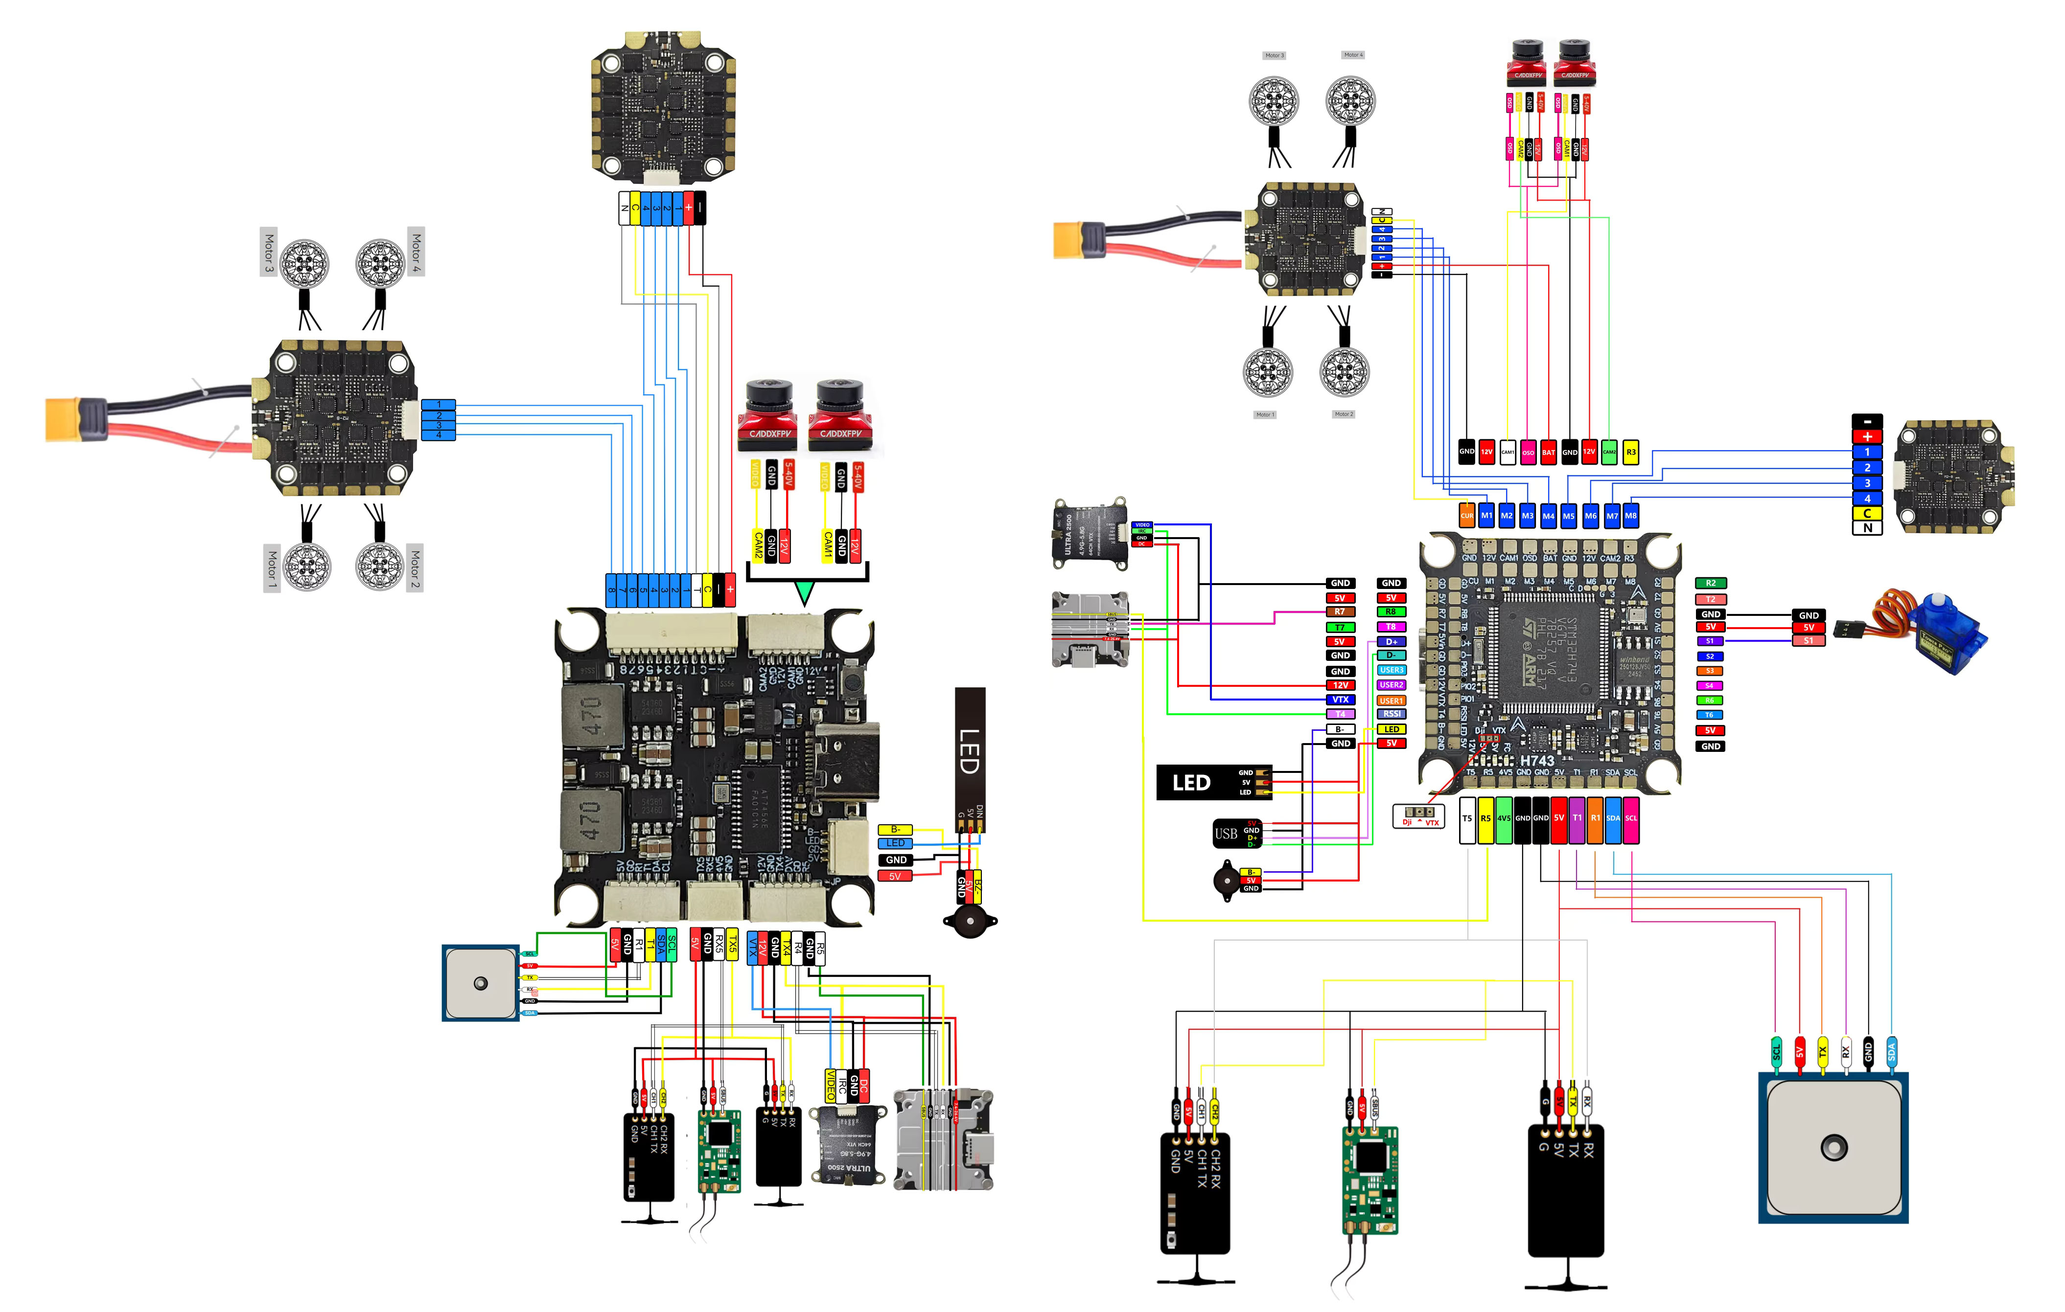
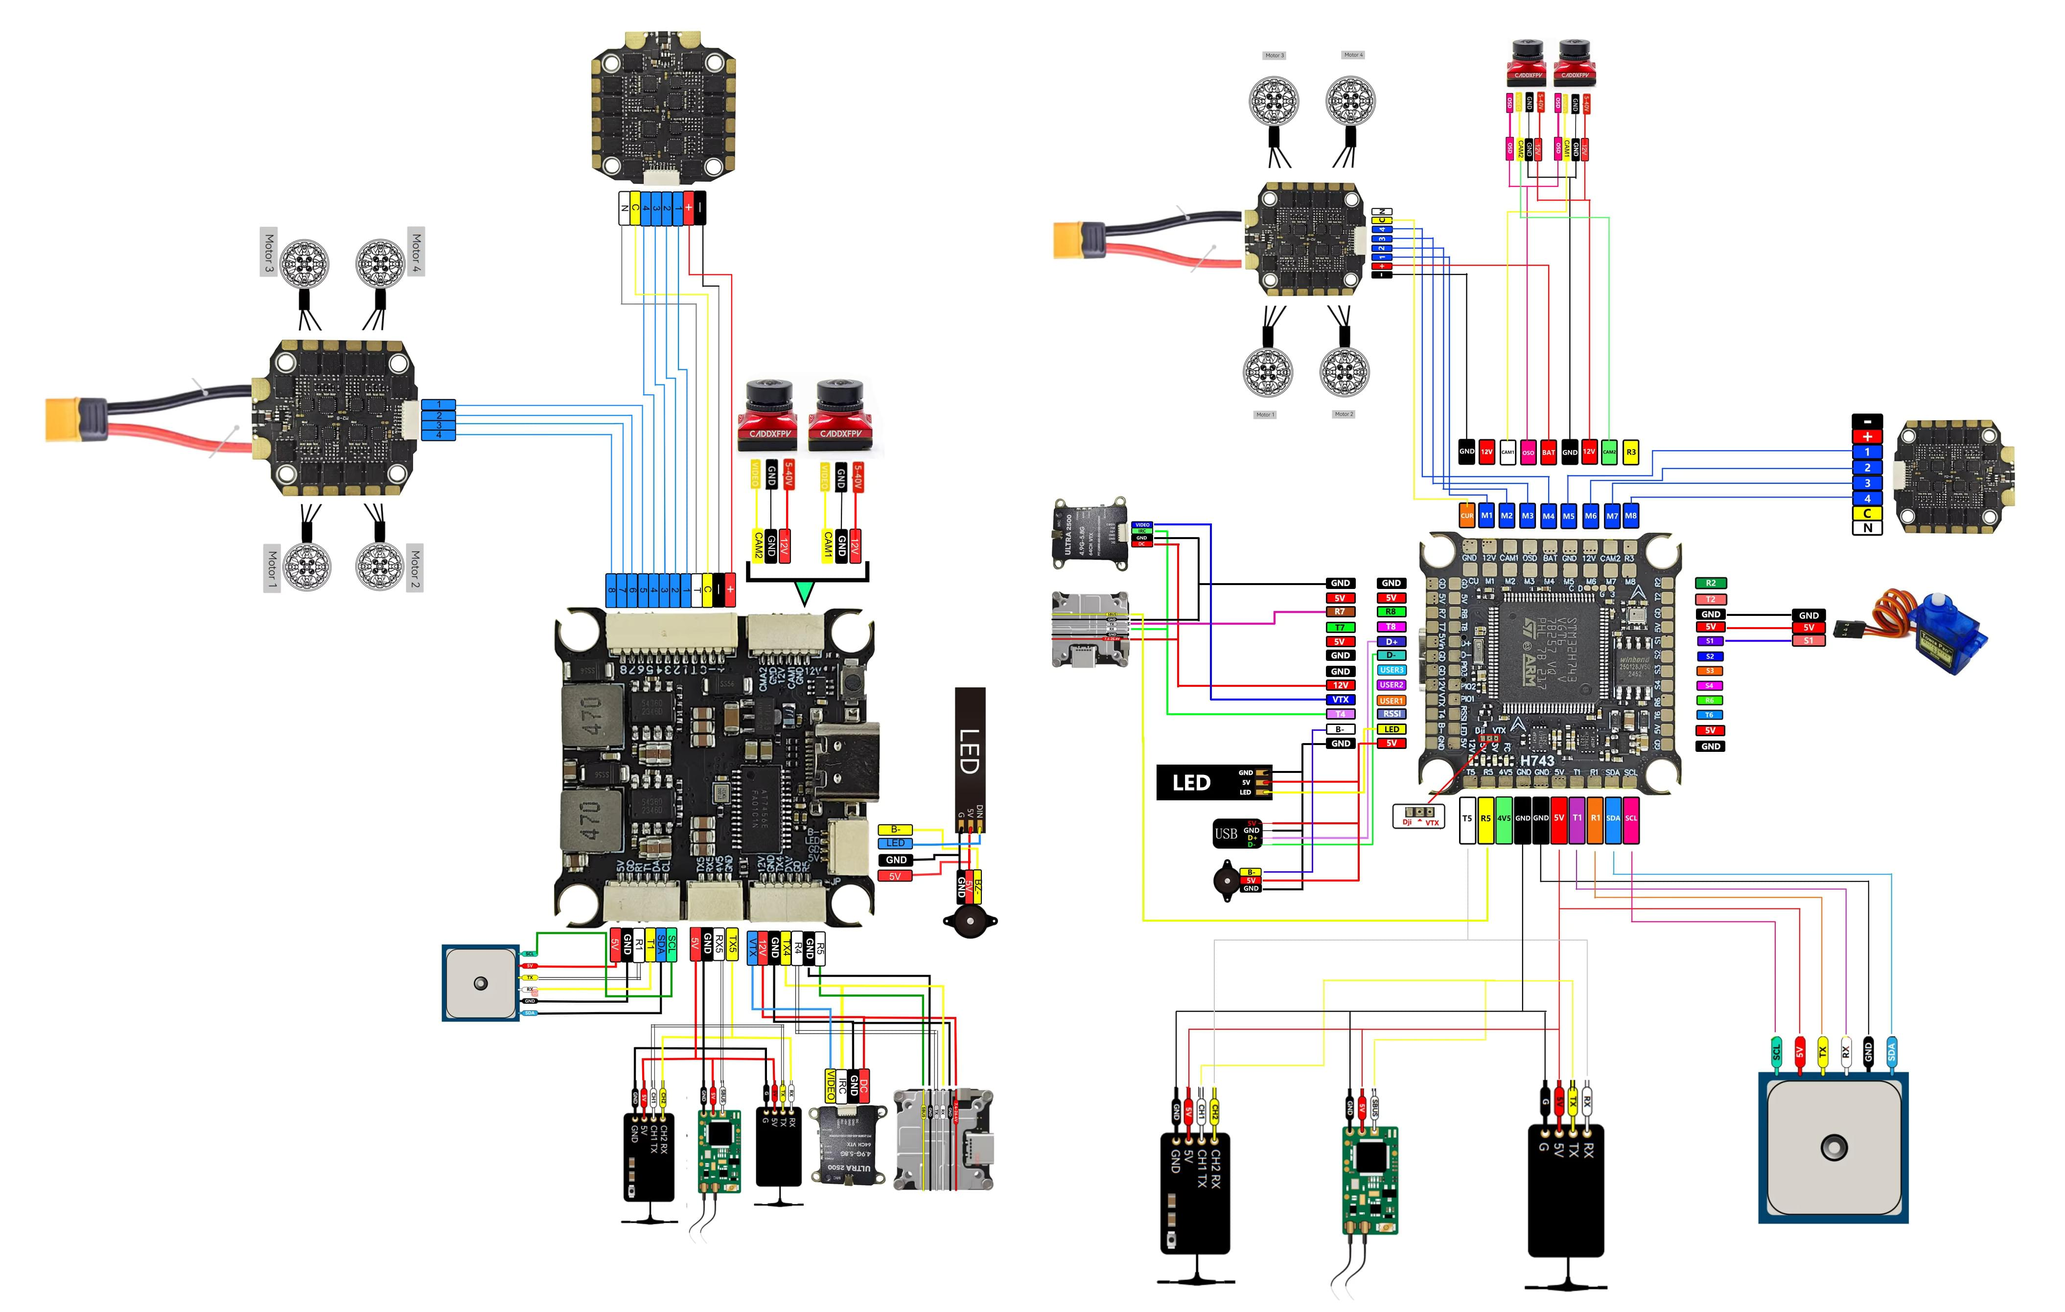
docs(dakefpv): sync board documentation with PR #27522
This port built all three DAKEFPV variants but documented only the base
H743: dakefpv_h743pro.md and dakefpv_h743slim.md were missing entirely,
along with their images, so two of the three boards shipped undocumented.

Add both pages plus their assets, refresh dakefpv_h743.md to the PR's
text, and pick up the recompressed images (the four H743 assets drop from
2.8 MB to 1.3 MB).

SUMMARY.md and autopilot_manufacturer_supported.md are shared indexes
listing a different board set on this release, so they are not copied
wholesale - only the DAKEFPV entries are inserted, in alphabetical
position. All 14 image references and every internal link resolve.

diff --git a/docs/en/flight_controller/dakefpv_h743slim.md b/docs/en/flight_controller/dakefpv_h743slim.md
@@ -1,0 +1,158 @@
+# DAKEFPV H743 Slim
+
+<Badge type="tip" text="PX4 v1.18" />
+
+::: warning
+PX4 does not manufacture this (or any) autopilot.
+Contact the [manufacturer](https://www.dakefpv.com/) for hardware support or compliance issues.
+:::
+
+The [DAKEFPV H743 Slim](https://www.dakefpv.com/) is an STM32H743-based flight controller for FPV racing and freestyle. It features a plug-and-play 4-in-1 ESC interface, barometer, OSD, 8 UARTs, a microSD card slot for blackbox logging, CAN bus, 5V BEC, LED and buzzer pads, and I2C pads for an external GPS/magnetometer.
+
+![DAKEFPV H743 Slim](../../assets/flight_controller/dakefpv_h743slim/dakefpvh743_slim.png)
+
+::: info
+This flight controller is [manufacturer supported](../flight_controller/autopilot_manufacturer_supported.md).
+:::
+
+## Key Features
+
+- **MCU:** STM32H743 @ 480 MHz
+- **IMUs:** 2x ICM-42688P (SPI1 and SPI4, independent power supply)
+- **Barometer:** SPL06 on I2C2 (requires battery power)
+- **OSD:** AT7456E
+- **Storage:** microSD card (SDMMC2)
+- **CAN:** 1x CAN port (PD0/PD1)
+- **UARTs:** 8
+- **PWM outputs:** 8x motor (DShot) + 4x servo + 1x LED
+- **Battery input:** 2S–12S LiPo
+- **BEC 5V:** 2A
+- **Mounting:** 30.5 × 30.5 mm, M4
+- **Weight:** 8 g
+
+## Where to Buy
+
+[DAKEFPV store](https://www.dakefpv.com/)
+
+## Connectors and Pins
+
+![DAKEFPV H743 Slim top](../../assets/flight_controller/dakefpv_h743slim/dakefpvh743_slim_top.png)
+
+| Pin         | Function                                  | PX4 Default    |
+| ----------- | ----------------------------------------- | -------------- |
+| Vbat        | Battery positive voltage (2S–12S)         |                |
+| SA1, CL1    | I2C peripheral interface (SDA/SCL)        |                |
+| 5V          | 5V output (2A max) BEC power supply       |                |
+| 4V5         | 4.5V output or USB power supply           |                |
+| 3V3         | 3.3V output (0.25A max)                   |                |
+| Airs        | Airspeed ADC input (PC4)                  |                |
+| Cur         | Battery current ADC input (PC0)           |                |
+| Rssi        | Analog RSSI input (PC5)                   |                |
+| SI, SO, CLK | External SPI bus MOSI/MISO/CLK            |                |
+| CS1, CS2    | External SPI bus CS1 (PA15) and CS2 (PD3) |                |
+| R1, T1      | UART1 RX/TX                               | GPS            |
+| R2, T2      | UART2 RX/TX                               | TELEM1         |
+| R3, T3      | UART3 RX/TX                               | TELEM2         |
+| R4, T4      | UART4 RX/TX (PB8/PB9)                     | TELEM3         |
+| R5, T5      | UART5 RX/TX                               | RC input       |
+| R6, T6      | UART6 RX/TX                               | TELEM4         |
+| R7, T7      | UART7 RX/TX                               | System console |
+| R8, T8      | UART8 RX/TX                               | GPS2           |
+| CH, CL      | CAN bus                                   |                |
+| Buz-        | Buzzer negative pin (PE10)                |                |
+| S1–S4       | Motor outputs (TIM1: PE9/PE11/PE13/PE14)  |                |
+| S5–S8       | Motor outputs (TIM2: PA0–PA3)             |                |
+| LED         | WS2812 LED strip (TIM3_CH3, PB0)          |                |
+
+## Wiring Diagrams
+
+![DAKEFPV H743 Slim wiring top](../../assets/flight_controller/dakefpv_h743slim/dakefpvh743_slim_wiringdiagramtop.png)
+
+![DAKEFPV H743 Slim wiring top 2](../../assets/flight_controller/dakefpv_h743slim/dakefpvh743_slim_wiringdiagramtop2.png)
+
+![DAKEFPV H743 Slim wiring bottom](../../assets/flight_controller/dakefpv_h743slim/dakefpvh743_slim_wiringdiagrambottom.png)
+
+## Serial Port Mapping
+
+| UART   | Board pads | Device     | PX4 default    |
+| ------ | ---------- | ---------- | -------------- |
+| USART1 | T1/R1      | /dev/ttyS0 | GPS1           |
+| USART2 | T2/R2      | /dev/ttyS1 | TELEM1         |
+| USART3 | T3/R3      | /dev/ttyS2 | TELEM2         |
+| UART4  | T4/R4      | /dev/ttyS3 | TELEM3         |
+| UART5  | T5/R5      | /dev/ttyS4 | RC input       |
+| USART6 | T6/R6      | /dev/ttyS5 | TELEM4         |
+| UART7  | T7/R7      | /dev/ttyS6 | System console |
+| UART8  | T8/R8      | /dev/ttyS7 | GPS2           |
+
+::: warning
+The pads are silkscreened by UART number, so `T4`/`R4` is UART4 — which PX4 exposes as **TELEM3**, not TELEM4.
+The digital VTX connects to `T4`, so its PX4 port is TELEM3 (`MSP_OSD_CONFIG 103`).
+:::
+
+::: info
+UART4 (TELEM3) is on PB8/PB9. PD0/PD1 are used by CAN1.
+:::
+
+## PWM Output Groups
+
+| Group | Outputs | Timer | DShot |
+| ----- | ------- | ----- | ----- |
+| 1     | M1–M4   | TIM1  | ✓     |
+| 2     | M5–M8   | TIM2  | ✓     |
+| 3     | S1–S4   | TIM4  | ✓     |
+| 4     | LED     | TIM3  | ✗     |
+
+## RC Input
+
+RC input is on UART5 (`/dev/ttyS4`). Supported: CRSF/ELRS, SBUS, DSM, SRXL2.
+
+## OSD
+
+The AT7456E analog OSD is on SPI2 and is enabled by default for PAL
+([OSD_ATXXXX_CFG](../advanced_config/parameter_reference.md#OSD_ATXXXX_CFG) = `2`).
+Set it to `1` for NTSC, or `0` to disable the analog OSD; a reboot is required.
+Analog OSD and digital HD OSD can run at the same time.
+
+The digital VTX (DJI/HDZero/OpenIPC) uses MSP DisplayPort on the `T4`/`R4` pads — UART4, PX4 TELEM3 (`/dev/ttyS3`), which is the `MSP_OSD_CONFIG 103` default.
+
+## CAN
+
+CAN1 is on PD0 (RX) and PD1 (TX) with a silent pin on PD2. Enable DroneCAN peripherals via the `UAVCAN_ENABLE` parameter.
+
+## PX4 Bootloader Update {#bootloader}
+
+The board ships with Betaflight. Flash the PX4 bootloader before loading PX4 firmware.
+
+Put the board in DFU mode (hold BOOT button while connecting USB), then:
+
+```sh
+dfu-util -a 0 -s 0x08000000:mass-erase:force:leave \
+  -D boards/dakefpv/h743slim/extras/dakefpv_h743slim_bootloader.bin
+```
+
+## Building Firmware
+
+```sh
+make dakefpv_h743slim_default
+```
+
+## Installing PX4 Firmware
+
+```sh
+make dakefpv_h743slim_default upload
+```
+
+## PX4 Configuration
+
+| Parameter                                                            | Setting                                                                        |
+| -------------------------------------------------------------------- | ------------------------------------------------------------------------------ |
+| [SYS_HAS_MAG](../advanced_config/parameter_reference.md#SYS_HAS_MAG) | Disabled by default (no internal mag). Enable if an external mag is connected. |
+
+## Debug Port
+
+![SWD pads on DAKEFPV H743 Slim](../../assets/flight_controller/dakefpv_h743slim/dakefpvh743_slim_top_debug.png)
+
+- `SWDIO`: PA13
+- `SWCLK`: PA14
+- `GND`: GND pad

diff --git a/docs/en/flight_controller/dakefpv_h743pro.md b/docs/en/flight_controller/dakefpv_h743pro.md
@@ -1,0 +1,134 @@
+# DAKEFPV H743 Pro
+
+<Badge type="tip" text="PX4 v1.18" />
+
+::: warning
+PX4 does not manufacture this (or any) autopilot.
+Contact the [manufacturer](https://www.dakefpv.com/) for hardware support or compliance issues.
+:::
+
+The DAKEFPV H743 Pro is an STM32H743-based flight controller for FPV racing and freestyle with CAN bus support.
+It shares the same sensor suite as the [DAKEFPV H743](dakefpv_h743.md) and adds a CAN port with independent DShot timer groups for M5–M8.
+
+::: info
+This flight controller is [manufacturer supported](../flight_controller/autopilot_manufacturer_supported.md).
+:::
+
+![DAKEFPV H743 Pro top](../../assets/flight_controller/dakefpv_h743pro/dakefpv_h743pro_top.png)
+![DAKEFPV H743 Pro bottom](../../assets/flight_controller/dakefpv_h743pro/dakefpv_h743pro_bottom.png)
+
+## Key Features
+
+- **MCU:** STM32H743 @ 480 MHz
+- **IMUs:** 2x ICM-42688P (SPI1 and SPI4, independent power supply)
+- **Barometer:** SPL06 on I2C2 (requires battery power)
+- **OSD:** AT7456E
+- **Blackbox storage:** 16 MB SPI NOR flash (no SD card slot)
+- **CAN:** 1x CAN port (PD0/PD1)
+- **UARTs:** 8
+- **PWM outputs:** 8x motor (DShot) + 4x servo + 1x LED
+- **Battery input:** 4S–12S LiPo
+- **BEC 5V:** 3A
+- **BEC 12V:** 3A (GPIO-controlled for VTX)
+- **Mounting:** 30.5 × 30.5 mm, M4
+
+## Where to Buy
+
+[DAKEFPV store](https://www.dakefpv.com/)
+
+## Wiring Diagram
+
+![DAKEFPV H743 Pro wiring top](../../assets/flight_controller/dakefpv_h743pro/dakefpv_h743pro_wiring_top.png)
+![DAKEFPV H743 Pro wiring bottom](../../assets/flight_controller/dakefpv_h743pro/dakefpv_h743pro_wiring_bottom.png)
+
+## Serial Port Mapping
+
+| UART   | Board pads | Device     | PX4 default    |
+| ------ | ---------- | ---------- | -------------- |
+| USART1 | T1/R1      | /dev/ttyS0 | GPS1           |
+| USART2 | T2/R2      | /dev/ttyS1 | TELEM1         |
+| USART3 | T3/R3      | /dev/ttyS2 | TELEM2         |
+| UART4  | T4/R4      | /dev/ttyS3 | TELEM3         |
+| UART5  | T5/R5      | /dev/ttyS4 | RC input       |
+| USART6 | T6/R6      | /dev/ttyS5 | TELEM4         |
+| UART7  | T7/R7      | /dev/ttyS6 | System console |
+| UART8  | T8/R8      | /dev/ttyS7 | GPS2           |
+
+::: warning
+The pads are silkscreened by UART number, so `T4`/`R4` is UART4 — which PX4 exposes as **TELEM3**, not TELEM4.
+The wiring diagram connects the digital VTX (DJI/HDZero/OpenIPC) to `T4`, so its PX4 port is TELEM3 (`MSP_OSD_CONFIG 103`).
+:::
+
+::: info
+UART4 (TELEM3) is on PB8/PB9 — PD0/PD1 are used by CAN1 on the Pro (on the non-Pro, UART4/TELEM3 is on PD0/PD1).
+:::
+
+## PWM Output Groups
+
+| Group | Outputs | Timer | DShot |
+| ----- | ------- | ----- | ----- |
+| 1     | M1–M4   | TIM2  | ✓     |
+| 2     | M5–M6   | TIM1  | ✓     |
+| 3     | M7–M8   | TIM8  | ✓     |
+| 4     | S1–S4   | TIM4  | ✓     |
+| 5     | LED     | TIM3  | ✗     |
+
+::: info
+M5–M6 and M7–M8 are in separate timer groups on the Pro, allowing independent DShot rates.
+On the non-Pro they share one group (TIM4).
+:::
+
+## RC Input
+
+RC input is on UART5 (`/dev/ttyS4`). Supported: CRSF/ELRS, SBUS, DSM, SRXL2.
+
+## OSD
+
+The AT7456E analog OSD is on SPI2 and is enabled by default for PAL
+([OSD_ATXXXX_CFG](../advanced_config/parameter_reference.md#OSD_ATXXXX_CFG) = `2`).
+Set it to `1` for NTSC, or `0` to disable the analog OSD; a reboot is required.
+Analog OSD and digital HD OSD can run at the same time.
+
+The digital VTX (DJI/HDZero/OpenIPC) uses MSP DisplayPort on the `T4`/`R4` pads, which is UART4 — PX4 TELEM3 (`/dev/ttyS3`).
+This is the default: `MSP_OSD_CONFIG` is set to `103` (TELEM3).
+
+## CAN
+
+CAN1 is on PD0 (RX) and PD1 (TX) with a silent pin on PD2. Enable DroneCAN peripherals via the `UAVCAN_ENABLE` parameter.
+
+## PX4 Bootloader Update {#bootloader}
+
+The board ships with Betaflight. Flash the PX4 bootloader before loading PX4 firmware.
+
+Put the board in DFU mode (hold BOOT button while connecting USB), then:
+
+```sh
+dfu-util -a 0 -s 0x08000000:mass-erase:force:leave \
+  -D boards/dakefpv/h743pro/extras/dakefpv_h743pro_bootloader.bin
+```
+
+## Building Firmware
+
+```sh
+make dakefpv_h743pro_default
+```
+
+## Installing PX4 Firmware
+
+```sh
+make dakefpv_h743pro_default upload
+```
+
+## PX4 Configuration
+
+| Parameter                                                            | Setting                                                                        |
+| -------------------------------------------------------------------- | ------------------------------------------------------------------------------ |
+| [SYS_HAS_MAG](../advanced_config/parameter_reference.md#SYS_HAS_MAG) | Disabled by default (no internal mag). Enable if an external mag is connected. |
+
+## Debug Port
+
+SWD pads are available on the board:
+
+- `SWDIO`: PA13
+- `SWCLK`: PA14
+- `GND`: GND pad

diff --git a/docs/en/flight_controller/dakefpv_h743.md b/docs/en/flight_controller/dakefpv_h743.md
@@ -1,5 +1,7 @@
 # DAKEFPV H743
 
+<Badge type="tip" text="PX4 v1.18" />
+
 ::: warning
 PX4 does not manufacture this (or any) autopilot.
 Contact the [manufacturer](https://www.dakefpv.com/) for hardware support or compliance issues.
@@ -47,18 +49,22 @@ It features dual ICM-42688P IMUs, an SPL06 barometer, an AT7456E OSD, 16 MB onbo
 
 ## Serial Port Mapping
 
-| UART   | Device     | PX4 default    | DMA   |
-| ------ | ---------- | -------------- | ----- |
-| USART1 | /dev/ttyS0 | GPS1           | RX+TX |
-| USART2 | /dev/ttyS1 | TELEM1         | —     |
-| USART3 | /dev/ttyS2 | TELEM2         | —     |
-| UART4  | /dev/ttyS3 | TELEM3         | RX+TX |
-| UART5  | /dev/ttyS4 | RC input       | RX+TX |
-| USART6 | /dev/ttyS5 | TELEM4         | RX+TX |
-| UART7  | /dev/ttyS6 | System console | —     |
-| UART8  | /dev/ttyS7 | GPS2           | —     |
+| UART   | Board pads | Device     | PX4 default    | DMA   |
+| ------ | ---------- | ---------- | -------------- | ----- |
+| USART1 | T1/R1      | /dev/ttyS0 | GPS1           | RX+TX |
+| USART2 | T2/R2      | /dev/ttyS1 | TELEM1         | —     |
+| USART3 | T3/R3      | /dev/ttyS2 | TELEM2         | —     |
+| UART4  | T4/R4      | /dev/ttyS3 | TELEM3         | RX+TX |
+| UART5  | T5/R5      | /dev/ttyS4 | RC input       | RX+TX |
+| USART6 | T6/R6      | /dev/ttyS5 | TELEM4         | RX+TX |
+| UART7  | T7/R7      | /dev/ttyS6 | System console | —     |
+| UART8  | T8/R8      | /dev/ttyS7 | GPS2           | —     |
 
-TELEM3 (UART4, `/dev/ttyS3`) is on PD0/PD1 and is the default MSP DisplayPort / digital-VTX port. DMA (DMA2) is allocated to the always-active links — GPS1, TELEM3, RC input and TELEM4; TELEM1, TELEM2, GPS2 and the system console are interrupt-driven.
+::: warning
+The pads are silkscreened by UART number, so `T4`/`R4` is UART4 — which PX4 exposes as **TELEM3**, not TELEM4.
+:::
+
+TELEM3 (UART4, `/dev/ttyS3`) is on PD0/PD1 and is the default MSP DisplayPort / digital-VTX port (`MSP_OSD_CONFIG 103`). DMA (DMA2) is allocated to the always-active links — GPS1, TELEM3, RC input and TELEM4; TELEM1, TELEM2, GPS2 and the system console are interrupt-driven.
 
 ## PWM Output Groups
 
@@ -81,14 +87,19 @@ For CRSF/ELRS, connect to the RX5/TX5 pads — TX is required for telemetry back
 
 ## OSD
 
-The AT7456E OSD is enabled by default on SPI2. Simultaneous analog OSD and digital HD OSD (via UART4 DisplayPort) is supported.
+The AT7456E analog OSD is on SPI2 and is enabled by default for PAL
+([OSD_ATXXXX_CFG](../advanced_config/parameter_reference.md#OSD_ATXXXX_CFG) = `2`).
+Set it to `1` for NTSC, or `0` to disable the analog OSD; a reboot is required.
+Analog OSD and digital HD OSD can run at the same time.
+
+The digital VTX (DJI/HDZero/OpenIPC) connects to the `T4`/`R4` pads — UART4, PX4 TELEM3 (`/dev/ttyS3`), which is the `MSP_OSD_CONFIG 103` default.
 
 ## Camera Switching and VTX Power
 
-| GPIO | Function                                   | Default state |
-| ---- | ------------------------------------------ | ------------- |
-| 81   | Camera switch (low = CAM2, high = CAM1)    | High (CAM1)   |
-| 82   | VTX 12V power (low = off, high = on)       | High (on)     |
+| GPIO | Function                                | Default state |
+| ---- | --------------------------------------- | ------------- |
+| 81   | Camera switch (low = CAM2, high = CAM1) | High (CAM1)   |
+| 82   | VTX 12V power (low = off, high = on)    | High (on)     |
 
 ## Battery Monitoring
 
@@ -115,7 +126,7 @@ Set `SYS_HAS_MAG = 0` if no external compass is connected.
 
 The board ships with Betaflight. Flash the PX4 bootloader before loading PX4 firmware.
 
-Put the board in DFU mode (hold BOOT button while plugging USB), then:
+Put the board in DFU mode (hold BOOT button while connecting USB), then:
 
 ```sh
 dfu-util -a 0 -s 0x08000000:leave \

diff --git a/docs/en/flight_controller/autopilot_manufacturer_supported.md b/docs/en/flight_controller/autopilot_manufacturer_supported.md
@@ -25,6 +25,9 @@ The boards in this category are:
 - [CubePilot Cube Orange+](../flight_controller/cubepilot_cube_orangeplus.md)
 - [CubePilot Cube Orange](../flight_controller/cubepilot_cube_orange.md)
 - [CubePilot Cube Yellow](../flight_controller/cubepilot_cube_yellow.md)
+- [DAKEFPV H743](../flight_controller/dakefpv_h743.md)
+- [DAKEFPV H743 Pro](../flight_controller/dakefpv_h743pro.md)
+- [DAKEFPV H743 Slim](../flight_controller/dakefpv_h743slim.md)
 - [Holybro Kakute H7v2](../flight_controller/kakuteh7v2.md)
 - [Holybro Kakute H7mini](../flight_controller/kakuteh7mini.md)
 - [Holybro Kakute H7](../flight_controller/kakuteh7.md)

diff --git a/docs/en/SUMMARY.md b/docs/en/SUMMARY.md
@@ -178,6 +178,8 @@
       - [CubePilot Cube Yellow (CubePilot)](flight_controller/cubepilot_cube_yellow.md)
         - [Cube Wiring Quickstart](assembly/quick_start_cube.md)
       - [DAKEFPV H743](flight_controller/dakefpv_h743.md)
+      - [DAKEFPV H743 Pro](flight_controller/dakefpv_h743pro.md)
+      - [DAKEFPV H743 Slim](flight_controller/dakefpv_h743slim.md)
       - [Gear Up AirBrainH743](flight_controller/gearup_airbrainh743.md)
       - [Holybro Kakute H7v2](flight_controller/kakuteh7v2.md)
       - [Holybro Kakute H7mini](flight_controller/kakuteh7mini.md)
